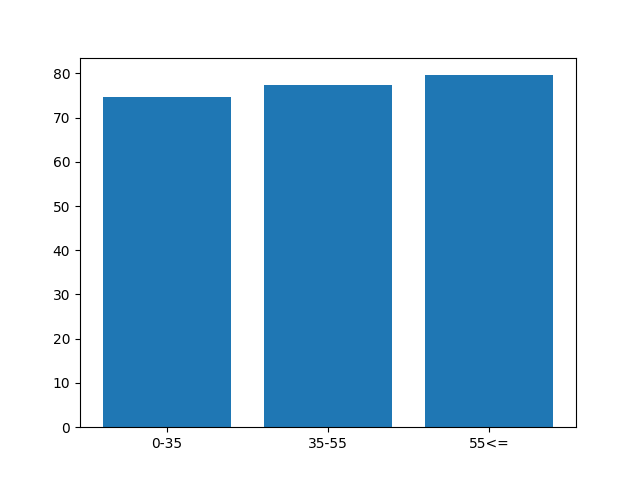
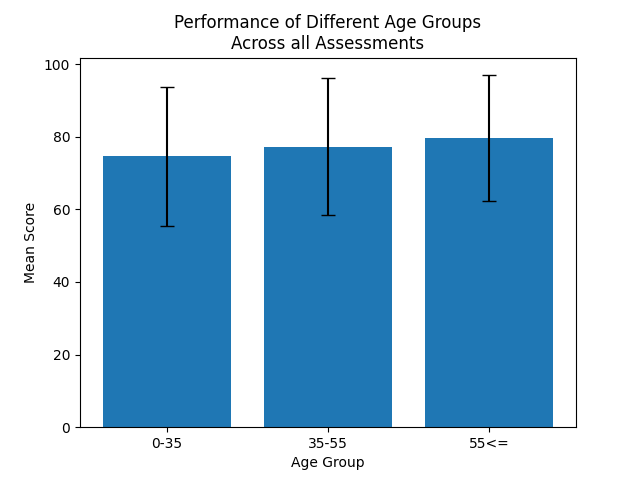
add more analysis and plots

diff --git a/src/scores.py b/src/scores.py
@@ -10,12 +10,11 @@ from pathlib import Path
 PLOTS_FOLDER = os.path.join("..", "results", "scores")
 
 
-def main():
-    Path(PLOTS_FOLDER).mkdir(parents=True, exist_ok=True)
-
+def top_level_analysis():
     student_assessment = data.load_df("studentAssessment")
     student_vle = data.load_df("studentVle")
     student_info = data.load_df("studentInfo")
+    assessment = data.load_df("assessments")
 
     # Drop rows with nan score
     student_assessment = student_assessment[~student_assessment["score"].isnull()]
@@ -47,6 +46,9 @@ def main():
         student_scores_and_learning["sum_click"].to_numpy(),
         student_scores_and_learning["mean"].to_numpy(),
     )
+    plt.xlabel("Number of Clicks")
+    plt.ylabel("Mean Score")
+    plt.title("Student Score vs. Learning")
     plt.savefig(os.path.join(PLOTS_FOLDER, "student_scores_and_learning.png"))
     plt.clf()
 
@@ -57,27 +59,62 @@ def main():
     student_scores_and_regions = student_scores_and_info[["region", "score"]]
 
     # Consolidate regional score into mean
-    region_performance = student_scores_and_regions.groupby("region").mean()
+    region_performance = (
+        student_scores_and_regions.groupby("region")["score"].apply(list).to_frame()
+    )
+
+    region_performance["mean"] = region_performance["score"].apply(np.mean)
+    region_performance["std"] = region_performance["score"].apply(np.std)
 
     # Plot -- I strip the region names to 4 letters until we fix the rotation
     # issues of getting the full region names to fit
     x = region_performance.index.to_list()
-    x = [e[:4] for e in x]
-    height = region_performance["score"].to_numpy()
-    plt.bar(x, height)
-    plt.savefig(os.path.join(PLOTS_FOLDER, "region_performance.png"))
+    x = [e.replace(" Region", "") for e in x]
+    height = region_performance["mean"].to_numpy()
+    error = region_performance["std"].to_numpy()
+    xticks = np.arange(len(x))
+    plt.bar(xticks, height)
+    plt.errorbar(
+        xticks, y=height, yerr=error, linestyle="none", capsize=5, color="black"
+    )
+    plt.xticks(xticks, x, rotation=45, horizontalalignment="right")
+    plt.xlabel("Region")
+    plt.ylabel("Mean Score")
+    plt.title("Performance of Different Regions\nAcross all Assessments")
+    plt.savefig(
+        os.path.join(PLOTS_FOLDER, "region_performance.png"), bbox_inches="tight"
+    )
     plt.clf()
 
     # Joins all student scores with the region information
     student_scores_and_ages = student_scores_and_info[["age_band", "score"]]
 
     # Consolidate regional score into mean
-    age_performance = student_scores_and_ages.groupby("age_band").mean()
+    age_performance = (
+        student_scores_and_ages.groupby("age_band")["score"].apply(list).to_frame()
+    )
 
     # Plot it
     x = age_performance.index.to_list()
-    height = age_performance["score"].to_numpy()
+
+    # Consolidate regional score into mean
+    age_performance = (
+        student_scores_and_ages.groupby("age_band")["score"].apply(list).to_frame()
+    )
+
+    # Mean and std of performance
+    age_performance["mean"] = age_performance["score"].apply(np.mean)
+    age_performance["std"] = age_performance["score"].apply(np.std)
+
+    height = age_performance["mean"].to_numpy()
+    error = age_performance["std"].to_numpy()
+
     plt.bar(x, height)
+    plt.errorbar(x, y=height, yerr=error, linestyle="none", capsize=5, color="black")
+
+    plt.xlabel("Age Group")
+    plt.ylabel("Mean Score")
+    plt.title("Performance of Different Age Groups\nAcross all Assessments")
     plt.savefig(os.path.join(PLOTS_FOLDER, "age_performance.png"))
     plt.clf()
 
@@ -94,19 +131,183 @@ def main():
     region_learning = student_regions_and_learning.groupby("region")["sum_click"].sum()
 
     # Plot it
-    x = region_learning.index.to_list()
-    x = [e[:4] for e in x]
-    height = region_learning.values
-    plt.bar(x, height)
-    plt.savefig(os.path.join(PLOTS_FOLDER, "region_learning.png"))
+    region_learning_idx = region_learning.index.to_list()
+    height = [region_learning[k] / region_size[k] for k in region_learning_idx]
+    region_learning_idx = [e.replace(" Region", "") for e in region_learning_idx]
+    xticks = np.arange(len(region_learning_idx))
+    plt.bar(xticks, height)
+    plt.xlabel("Region")
+    plt.ylabel("Interactions Per Person")
+    plt.xticks(xticks, region_learning_idx, rotation=45, horizontalalignment="right")
+    plt.title("Virtual Learning Engagement\nAcross Regions")
+    plt.savefig(os.path.join(PLOTS_FOLDER, "region_learning.png"), bbox_inches="tight")
     plt.clf()
 
-    x = region_size.index.to_list()
-    x = [e[:4] for e in x]
-    height = region_size.values
-    plt.bar(x, height)
-    plt.savefig(os.path.join(PLOTS_FOLDER, "region_size.png"))
+    student_assessment_and_assessment_info = pd.merge(
+        student_assessment, assessment, how="inner", on="id_assessment"
+    )
+    student_assessment_and_assessment_info["perc_till_deadline"] = (
+        student_assessment_and_assessment_info["date_submitted"]
+        / student_assessment_and_assessment_info["date"]
+    )
+
+    # drop rows where assessments were submitted before the semester (or module) started
+    # could come back to this.. we didn't make sense of it..
+    student_assessment_and_assessment_info = student_assessment_and_assessment_info[
+        student_assessment_and_assessment_info["date_submitted"] >= 0
+    ]
+
+    plt.scatter(
+        student_assessment_and_assessment_info["perc_till_deadline"].to_numpy(),
+        student_assessment_and_assessment_info["score"].to_numpy(),
+    )
+    plt.xlabel("Percent Till Deadline")
+    plt.ylabel("Score")
+    plt.title("Student Scores Compared with\nRelative Submission Time")
+    plt.savefig(
+        os.path.join(PLOTS_FOLDER, "student_perc_till_deadline_and_performance.png")
+    )
     plt.clf()
+
+
+def lower_level_analysis():
+    student_assessment = data.load_df("studentAssessment")
+    student_vle = data.load_df("studentVle")
+    student_info = data.load_df("studentInfo")
+
+    student_assessment = student_assessment[~student_assessment["score"].isnull()]
+
+    assessment = data.load_df("assessments")
+    student_exam_assessment = pd.merge(
+        student_assessment,
+        assessment[assessment["assessment_type"] == "Exam"],
+        how="inner",
+        on="id_assessment",
+    )
+
+    # Consistency of students: groupby on student and then get list of grades across assessments
+    consistency = (
+        student_exam_assessment.groupby("id_student")["score"].apply(list).to_frame()
+    )
+
+    # Mean and std of performance
+    consistency["mean"] = consistency["score"].apply(np.mean)
+    consistency["std"] = consistency["score"].apply(np.std)
+
+    # Calculates total VLE usage by summing "sum_click"
+    student_total_vle_usage = (
+        student_vle.groupby("id_student")["sum_click"].sum().to_frame()
+    )
+
+    # Joins consistency of performance with VLE usage
+    student_scores_and_learning = pd.merge(
+        consistency, student_total_vle_usage, how="inner", on="id_student"
+    )
+
+    # Just grab the meanage_exam_perfor and sum_click columns
+    student_scores_and_learning = student_scores_and_learning[["mean", "sum_click"]]
+
+    # Scatter those 2 columns to show correlation
+    plt.scatter(
+        student_scores_and_learning["sum_click"].to_numpy(),
+        student_scores_and_learning["mean"].to_numpy(),
+    )
+    plt.xlabel("Number of Clicks")
+    plt.ylabel("Mean Score")
+    plt.title("Student Exam Score vs. Learning")
+    plt.savefig(os.path.join(PLOTS_FOLDER, "student_exam_scores_and_learning.png"))
+    plt.clf()
+
+    # Joins all student scores with the region information
+    student_scores_and_info = pd.merge(
+        student_exam_assessment, student_info, how="inner", on="id_student"
+    )
+    student_scores_and_regions = student_scores_and_info[["region", "score"]]
+
+    # Consolidate regional score into mean
+    region_performance = (
+        student_scores_and_regions.groupby("region")["score"].apply(list).to_frame()
+    )
+
+    region_performance["mean"] = region_performance["score"].apply(np.mean)
+    region_performance["std"] = region_performance["score"].apply(np.std)
+
+    # Plot -- I strip the region names to 4 letters until we fix the rotation
+    # issues of getting the full region names to fit
+    x = region_performance.index.to_list()
+    x = [e.replace(" Region", "") for e in x]
+    height = region_performance["mean"].to_numpy()
+    error = region_performance["std"].to_numpy()
+    xticks = np.arange(len(x))
+    plt.bar(xticks, height)
+    plt.errorbar(
+        xticks, y=height, yerr=error, linestyle="none", capsize=5, color="black"
+    )
+
+    plt.xticks(xticks, x, rotation=45, horizontalalignment="right")
+    plt.xlabel("Region")
+    plt.ylabel("Mean Score")
+    plt.title("Performance of Different Regions\nAcross all Exams")
+    plt.savefig(
+        os.path.join(PLOTS_FOLDER, "region_exam_performance.png"), bbox_inches="tight"
+    )
+    plt.clf()
+
+    # Joins all student scores with the region information
+    student_scores_and_ages = student_scores_and_info[["age_band", "score"]]
+
+    # Consolidate regional score into mean
+    age_performance = (
+        student_scores_and_ages.groupby("age_band")["score"].apply(list).to_frame()
+    )
+
+    # Mean and std of performance
+    age_performance["mean"] = age_performance["score"].apply(np.mean)
+    age_performance["std"] = age_performance["score"].apply(np.std)
+
+    # Plot it
+    x = age_performance.index.to_list()
+    height = age_performance["mean"].to_numpy()
+    error = age_performance["std"].to_numpy()
+
+    plt.bar(x, height)
+    plt.errorbar(x, y=height, yerr=error, linestyle="none", capsize=5, color="black")
+    plt.xlabel("Age Group")
+    plt.ylabel("Mean Score")
+    plt.title("Performance of Different Age Groups\nAcross all Exams")
+    plt.savefig(os.path.join(PLOTS_FOLDER, "age_exam_performance.png"))
+    plt.clf()
+
+    # leaving this code here.. but plot not too useful
+
+    student_exam_assessment["perc_till_deadline"] = (
+        student_exam_assessment["date_submitted"] / student_exam_assessment["date"]
+    )
+
+    # drop rows where assessments were submitted before the semester (or module) started
+    # could come back to this.. we didn't make sense of it..
+    student_exam_assessment = student_exam_assessment[
+        student_exam_assessment["date_submitted"] >= 0
+    ]
+
+    plt.scatter(
+        student_exam_assessment["perc_till_deadline"].to_numpy(),
+        student_exam_assessment["score"].to_numpy(),
+    )
+    plt.xlabel("Percent Till Deadline")
+    plt.ylabel("Score")
+    plt.savefig(
+        os.path.join(
+            PLOTS_FOLDER, "student_perc_till_deadline_and_exam_performance.png"
+        )
+    )
+    plt.clf()
+
+
+def main():
+    Path(PLOTS_FOLDER).mkdir(parents=True, exist_ok=True)
+    top_level_analysis()
+    lower_level_analysis()
 
 
 if __name__ == "__main__":
